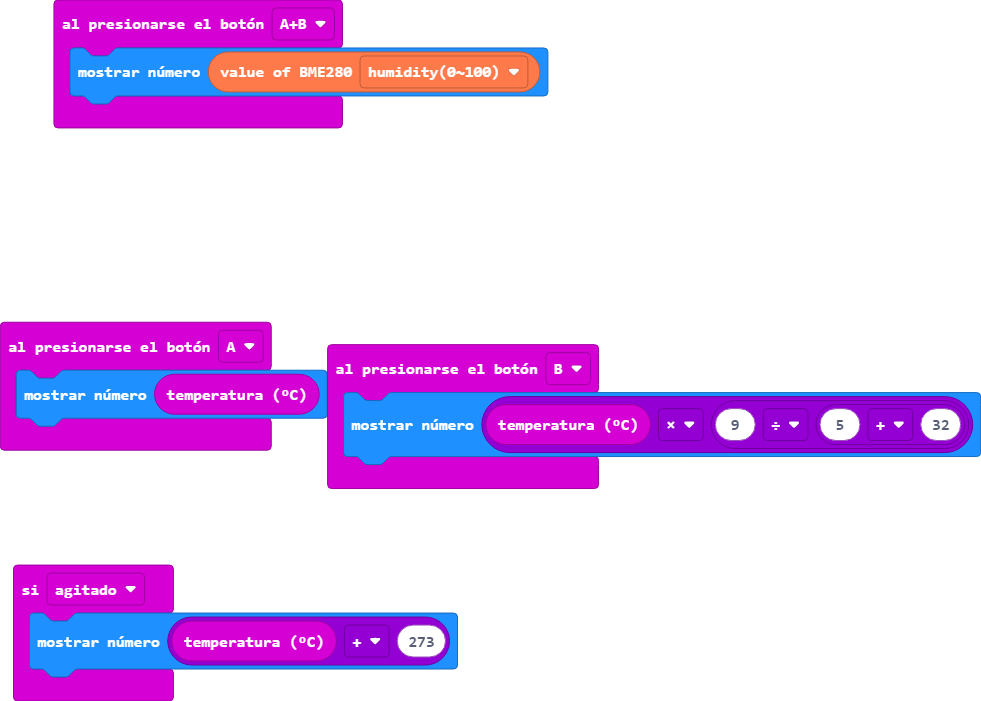
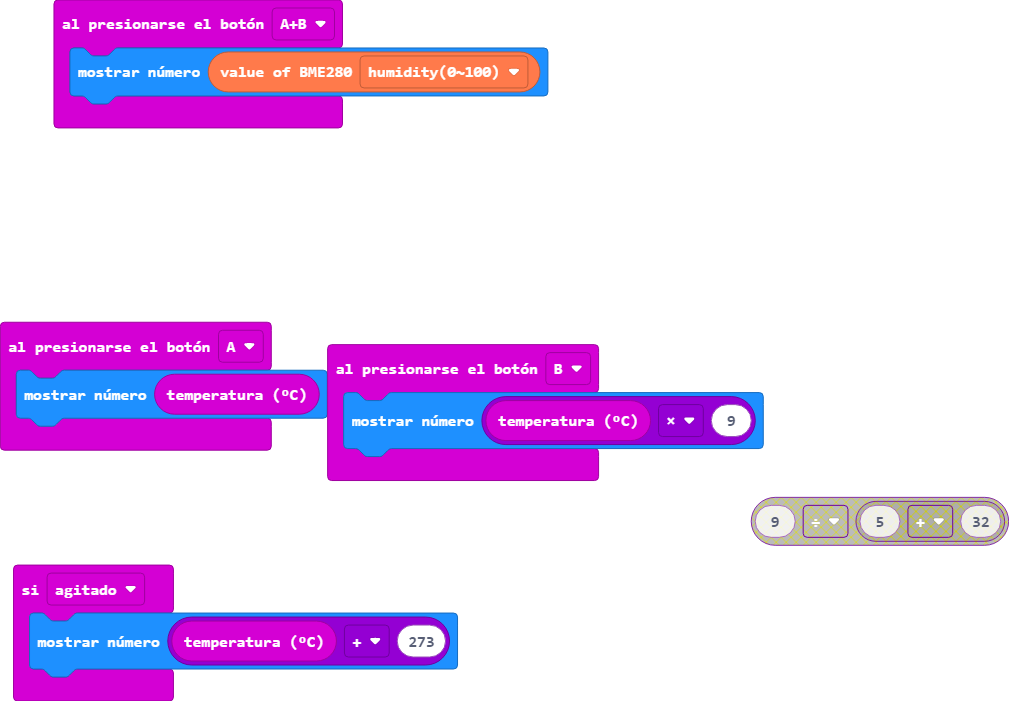
Actualizar pxt.json, main.blocks, main.ts

diff --git a/main.ts b/main.ts
@@ -8,5 +8,5 @@ input.onButtonPressed(Button.AB, function () {
     basic.showNumber(Environment.octopus_BME280(Environment.BME280_state.BME280_humidity))
 })
 input.onButtonPressed(Button.B, function () {
-    basic.showNumber(input.temperature() * (9 / (5 + 32)))
+    basic.showNumber(input.temperature() * 9)
 })
